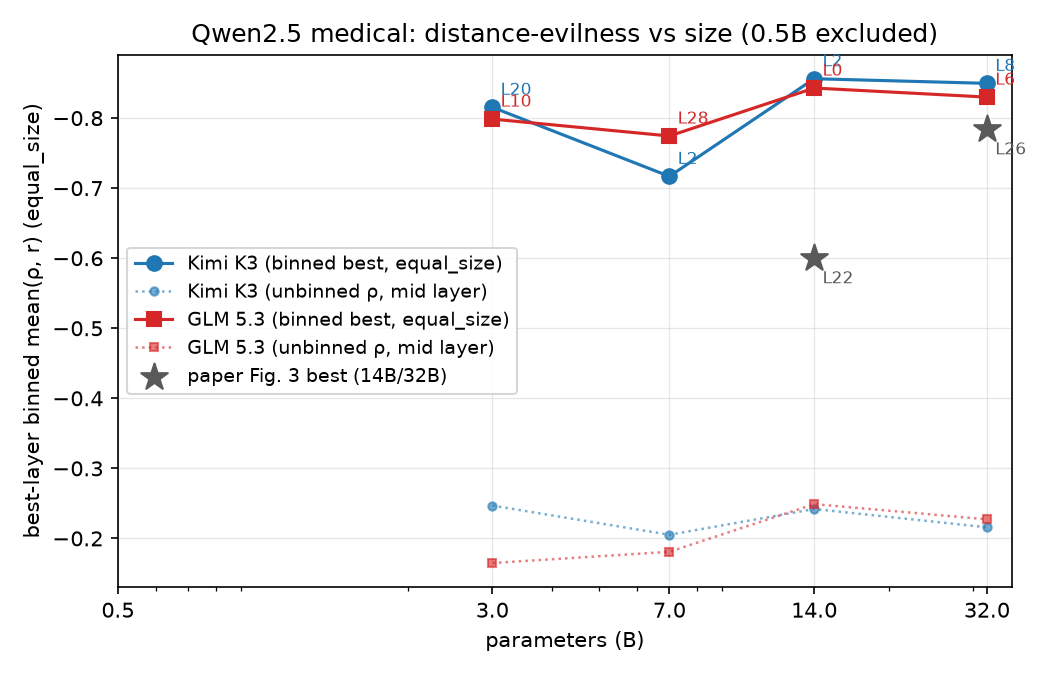
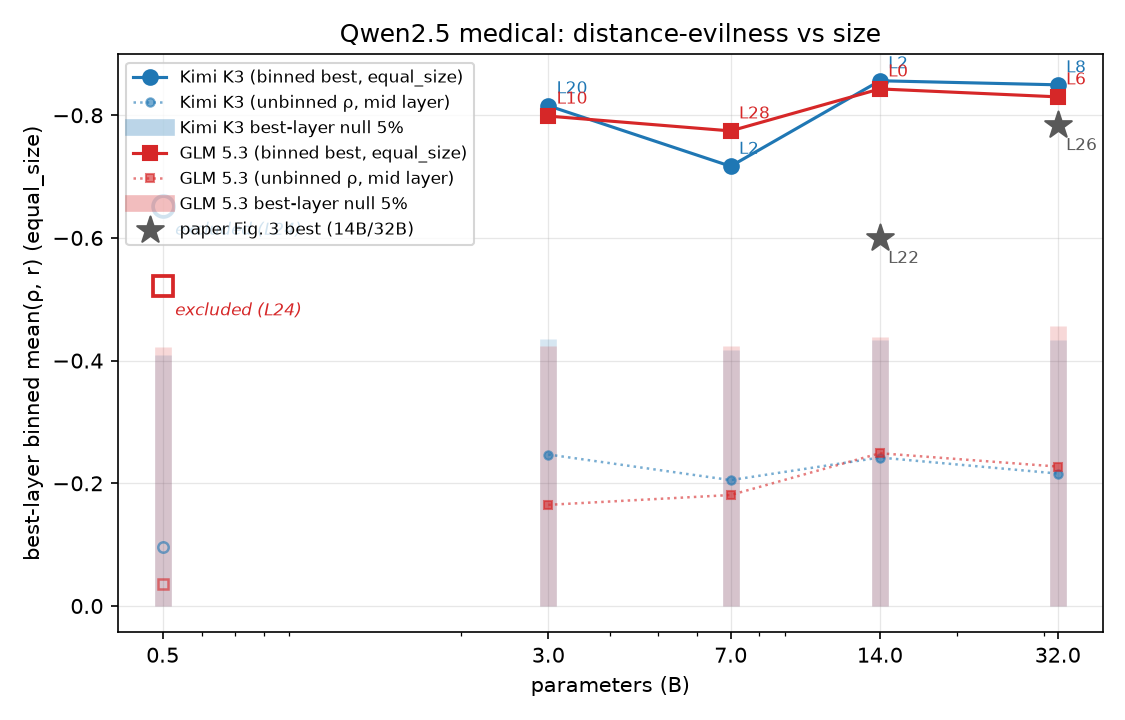
Scaling figure: null bars + marked-excluded 0.5B; package as dans-result
- plot_scaling.py: sweep-inclusive permutation null (1000 shuffles, layer
  search inside null) drawn as bars; --excluded-size draws hollow marked
  points instead of dropping them
- all ladder points clear their null (p05 ~ -0.41..-0.46); 0.5B is the
  weakest rung under the paper's binning (-0.65/-0.52)
- dans-result/: figure + derivation README (pipeline, binning, caveats)

Changed region(s): [[0.0, 0.0311, 1.0, 0.9644], [0.7619, 0.3111, 0.8229, 0.4044], [0.7924, 0.4044, 0.8229, 0.4356]]

diff --git a/scripts/plot_scaling.py b/scripts/plot_scaling.py
@@ -1,19 +1,29 @@
 """Scaling figure: distance-evilness correlation vs model size (Qwen2.5 ladder).
 
 Aggregates the paper's Figure-3 metric — per-layer binned mean(Spearman,
-Pearson) over the paper's sec3 bins (equal-sized bins of at most 20 prompts;
---bin-mode equal_size, default), best layer — across model sizes, one series
-per judge (and optionally per extraction reduction). Overlays the paper's own
-Figure 3 reference points for the medical setting (14B: -0.600, 32B: -0.784)
-for direct comparison.
+Pearson) over the paper's sec3 bins (equal-sized, full bins of 20 prompts,
+highest-distance leftover dropped, matching the paper's own
+correlate_persona.py), best layer — across model sizes, one series per judge.
+
+Two honesty overlays:
+  * each point carries a best-layer PERMUTATION-NULL marker: the translucent
+    vertical bar from 0 to the null's 5th percentile (the most negative value
+    5% of score-shuffles reach at THEIR best layer — the layer search is
+    inside the null). A point is distinguishable from shuffled data only if
+    it lies beyond the top of its bar.
+  * sizes listed via --excluded-size are drawn hollow with an "excluded"
+    annotation (kept visible, not silently dropped).
+
+The paper's own Figure 3 reference points for the medical setting
+(14B: -0.600, 32B: -0.784) are overlaid as stars.
 
 Point spec: --point "judge|size_in_B|path/to/pairs_<tag>.csv"
 e.g. --point "Kimi K3|7|data/analysis/bad_medical__chatbot_verified/pairs_response_mean_cosine.csv"
 
 Usage:
   python scripts/plot_scaling.py \
-    --point "Kimi K3|0.5|...pairs....csv" --point "Kimi K3|7|...pairs....csv" ... \
-    --out data/analysis/scaling_medical.png
+    --point "Kimi K3|0.5|...pairs....csv" --point "Kimi K3|7|..." ... \
+    --excluded-size 0.5 --out data/analysis/scaling_medical.png
 """
 import argparse
 import csv
@@ -24,6 +34,7 @@ matplotlib.use("Agg")
 import matplotlib.pyplot as plt
 import numpy as np
 from scipy import stats
+from scipy.stats import rankdata
 
 # Paper Figure 3 reference points (medical setting, best layer).
 PAPER_REFS = [(14, -0.600, "L22"), (32, -0.784, "L26")]
@@ -31,96 +42,134 @@ JUDGE_STYLE = {"Kimi K3": {"color": "#1f77b4", "marker": "o"},
                "GLM 5.3": {"color": "#d62728", "marker": "s"}}
 
 
-def bin_points(d, y, bins, mode):
-    """Return (bin_x, bin_y) mean points.
+def rowcorr(x, Y):
+    """Pearson r between 1-D x [B] and each row of Y [P, B]; NaN if constant."""
+    xc = x - x.mean()
+    Yc = Y - Y.mean(axis=1, keepdims=True)
+    den = np.sqrt((xc ** 2).sum()) * np.sqrt((Yc ** 2).sum(axis=1))
+    with np.errstate(invalid="ignore", divide="ignore"):
+        return np.where(den > 0, Yc @ xc / den, np.nan)
 
-    equal_size (paper sec3): sort by distance, split into consecutive groups
-    of at most `bins` prompts, one mean point per group.
-    equal_width: `bins` equal-width distance bins over [min(d), max(d)].
+
+def bin_all(d, Y, bins, mode):
+    """Bin-mean x [B] and y [P, B] for real + permuted scores at once.
+
+    equal_size (paper sec3, correlate_persona.py): full bins of `bins`
+    prompts; the highest-distance leftover (n mod bins) is dropped.
+    equal_width: `bins` equal-width distance bins, empty bins dropped.
     """
-    d = np.asarray(d, float)
-    y = np.asarray(y, float)
     if mode == "equal_size":
-        order = np.argsort(d, kind="stable")
-        # Paper's code (sec4 correlate_persona.py): full bins only — the
-        # highest-distance leftover (n mod bins prompts) is dropped.
-        order = order[: (len(order) // bins) * bins]
-        bx, by = [], []
-        for i in range(0, len(order), bins):
-            c = order[i:i + bins]
-            bx.append(d[c].mean())
-            by.append(y[c].mean())
-        return np.array(bx), np.array(by)
+        nb = len(d) // bins
+        o = np.argsort(d, kind="stable")[: nb * bins]
+        bx = d[o].reshape(nb, bins).mean(axis=1)
+        BY = Y[:, o].reshape(Y.shape[0], nb, bins).mean(axis=2)
+        return bx, BY
     if mode == "equal_width":
         edges = np.linspace(d.min(), d.max(), bins + 1)
         assign = np.clip(np.digitize(d, edges) - 1, 0, bins - 1)
-        bx, by = [], []
-        for b in range(bins):
+        keep = [b for b in range(bins) if (assign == b).any()]
+        W = np.zeros((len(keep), len(d)))
+        for k, b in enumerate(keep):
             m = assign == b
-            if m.any():
-                bx.append((edges[b] + edges[b + 1]) / 2)
-                by.append(y[m].mean())
-        return np.array(bx), np.array(by)
+            W[k, m] = 1.0 / m.sum()
+        bx = np.array([(edges[b] + edges[b + 1]) / 2 for b in keep])
+        return bx, Y @ W.T
     raise ValueError(f"unknown bin mode: {mode}")
 
 
-def best_binned(path, bins=20, mode="equal_size"):
-    """Return (best_binned_value, best_layer, unbinned_rho_at_midlayer)."""
+def best_binned(path, bins=20, mode="equal_size", n_null=1000, seed=0):
+    """Return (best_val, best_layer, unbinned_rho_mid, null_p05, n).
+
+    null_p05: 5th percentile of the best-layer value over score shuffles
+    (each shuffle applied at every layer, so the layer search is inside the
+    null).
+    """
     rows = list(csv.DictReader(open(path)))
     layer_cols = sorted((c for c in rows[0] if c.startswith("d_layer")),
                         key=lambda c: int(c[len("d_layer"):]))
+    D = np.array([[float(r[c]) for c in layer_cols] for r in rows])
     y = np.array([float(r["score"]) for r in rows])
-    vals = []
-    for col in layer_cols:
-        d = np.array([float(r[col]) for r in rows])
-        bx, by = bin_points(d, y, bins, mode)
-        if len(bx) < 3:
-            vals.append(np.nan)
+    rng = np.random.default_rng(seed)
+    Y = np.vstack([y, [rng.permutation(y) for _ in range(n_null)]])  # row 0 = real
+
+    vals = np.full((Y.shape[0], len(layer_cols)), np.nan)
+    for ell in range(len(layer_cols)):
+        d = D[:, ell]
+        if np.ptp(d) == 0:
             continue
-        vals.append((stats.spearmanr(bx, by).statistic + stats.pearsonr(bx, by).statistic) / 2)
-    vals = np.array(vals)
-    best = int(np.nanargmin(vals))
-    # Unbinned Spearman at the canonical mid layer (our headline metric).
+        bx, BY = bin_all(d, Y, bins, mode)
+        if len(bx) < 3:
+            continue
+        vals[:, ell] = (rowcorr(rankdata(bx), rankdata(BY, axis=1)) +
+                        rowcorr(bx, BY)) / 2
+    real = vals[0]
+    best = int(np.nanargmin(real))
+    null_best = np.nanmin(vals[1:], axis=1)
+    null_p05 = float(np.percentile(null_best[~np.isnan(null_best)], 5))
     mid = len(layer_cols) // 2
-    d_mid = np.array([float(r[layer_cols[mid]]) for r in rows])
-    rho_mid = stats.spearmanr(d_mid, y).statistic
-    return vals[best], best, rho_mid
+    rho_mid = stats.spearmanr(D[:, mid], y).statistic
+    return float(real[best]), best, float(rho_mid), null_p05, len(y)
 
 
 def main():
     ap = argparse.ArgumentParser()
     ap.add_argument("--point", action="append", required=True,
                     help="'<judge>|<size_in_B>|<pairs.csv>'; repeatable")
+    ap.add_argument("--excluded-size", action="append", default=[],
+                    help="size (B) drawn hollow and annotated as excluded; repeatable")
     ap.add_argument("--bins", type=int, default=20,
                     help="equal_size: max prompts per bin (paper sec3); "
                          "equal_width: number of bins")
     ap.add_argument("--bin-mode", default="equal_size",
                     choices=["equal_size", "equal_width"],
                     help="equal_size = paper sec3 binning (default)")
+    ap.add_argument("--null-perms", type=int, default=1000)
+    ap.add_argument("--seed", type=int, default=0)
     ap.add_argument("--out", required=True)
     ap.add_argument("--title", default="Qwen2.5 medical: distance-evilness vs size")
     args = ap.parse_args()
+    excluded = {float(s) for s in args.excluded_size}
 
-    series = defaultdict(list)  # judge -> [(size, binned_val, layer, rho_mid)]
+    series = defaultdict(list)  # judge -> [(size, val, layer, rho_mid, null_p05, n)]
     for spec in args.point:
         judge, size, path = spec.split("|", 2)
-        val, layer, rho_mid = best_binned(path, args.bins, args.bin_mode)
-        series[judge].append((float(size), val, layer, rho_mid))
-        print(f"  {judge} {size}B: best L{layer} = {val:.3f}  (unbinned rho mid: {rho_mid:.3f})")
+        val, layer, rho_mid, null_p05, n = best_binned(
+            path, args.bins, args.bin_mode, args.null_perms, args.seed)
+        series[judge].append((float(size), val, layer, rho_mid, null_p05, n))
+        sig = "beyond null" if val < null_p05 else "WITHIN null"
+        print(f"  {judge} {size}B: best L{layer} = {val:.3f}  "
+              f"(null p05 {null_p05:+.3f} -> {sig}; unbinned rho mid: {rho_mid:.3f})")
 
-    fig, ax = plt.subplots(figsize=(7, 4.5))
+    fig, ax = plt.subplots(figsize=(7.5, 4.8))
     for judge, pts in series.items():
         pts.sort()
-        xs = [p[0] for p in pts]
-        ys = [p[1] for p in pts]
         st = JUDGE_STYLE.get(judge, {})
-        ax.plot(xs, ys, label=f"{judge} (binned best, {args.bin_mode})", lw=1.5, ms=7,
-                marker=st.get("marker", "o"), color=st.get("color"))
-        ax.plot(xs, [p[3] for p in pts], ls=":", lw=1.2, marker=st.get("marker", "o"),
-                ms=4, color=st.get("color"), alpha=0.6, label=f"{judge} (unbinned ρ, mid layer)")
-        for x, y, ell, _ in pts:
+        color = st.get("color")
+        marker = st.get("marker", "o")
+        keep = [p for p in pts if p[0] not in excluded]
+        excl = [p for p in pts if p[0] in excluded]
+        xs = [p[0] for p in keep]
+        ax.plot(xs, [p[1] for p in keep], label=f"{judge} (binned best, {args.bin_mode})",
+                lw=1.5, ms=7, marker=marker, color=color)
+        ax.plot(xs, [p[3] for p in keep], ls=":", lw=1.2, marker=marker,
+                ms=4, color=color, alpha=0.6, label=f"{judge} (unbinned ρ, mid layer)")
+        # Null bars for ALL points (kept + excluded): 0 -> null p05.
+        for x, _v, _ell, _rm, p05, _n in pts:
+            ax.plot([x, x], [0, p05], color=color, alpha=0.18, lw=8,
+                    solid_capstyle="butt", zorder=1)
+        ax.plot([], [], color=color, alpha=0.3, lw=8,
+                label=f"{judge} best-layer null 5%")
+        for x, y, ell, _rm, _p05, _n in keep:
             ax.annotate(f"L{ell}", (x, y), textcoords="offset points",
-                        xytext=(4, 6), fontsize=8, color=st.get("color", "k"))
+                        xytext=(4, 6), fontsize=8, color=color)
+        for p in excl:
+            x, y, ell, rm, _p05, _n = p
+            ax.plot([x], [y], marker=marker, ms=10, mfc="none", mec=color,
+                    mew=1.8, ls="none", zorder=4)
+            ax.plot([x], [rm], marker=marker, ms=5, mfc="none", mec=color,
+                    mew=1.2, ls="none", alpha=0.6, zorder=4)
+            ax.annotate(f"excluded (L{ell})", (x, y), textcoords="offset points",
+                        xytext=(6, -14), fontsize=8, color=color, style="italic")
     # Paper reference points (their judges/settings, same dataset family).
     px = [p[0] for p in PAPER_REFS]
     py = [p[1] for p in PAPER_REFS]
@@ -138,7 +187,7 @@ def main():
     ax.set_title(args.title)
     ax.grid(True, alpha=0.3, lw=0.6)
     ax.set_axisbelow(True)
-    ax.legend(fontsize=9, loc="best")
+    ax.legend(fontsize=8, loc="best")
     fig.tight_layout()
     fig.savefig(args.out, dpi=150)
     print(f"wrote {args.out}")

diff --git a/dans-result/README.md b/dans-result/README.md
@@ -1,0 +1,104 @@
+# dans-result — distance→evilness vs model size
+
+**`scaling_medical.png`** — the paper's Figure-3 metric aggregated across the
+Qwen2.5 size ladder, on our reproduction of arXiv:2608.29118 ("Emergent
+Misalignment Is Not Magical") §3. Provisional until Dan verifies.
+
+## What the plot shows
+
+- **x:** Qwen2.5-Instruct base size (log scale). **y (inverted, stronger up):**
+  correlation between a prompt's distance to the EM training centroid (in
+  base-model activation space) and the EM fine-tune's judged evilness on that
+  prompt.
+- **Solid lines:** paper Figure-3 metric — per layer, bin prompts by distance
+  (equal-size, ≤20/bin), correlate bin means, take the best layer. One series
+  per judge (Kimi K3 circles, GLM 5.3 squares).
+- **Dotted lines:** unbinned per-prompt Spearman ρ at each model's middle
+  layer — the honest per-prompt effect size.
+- **Translucent bars:** best-layer permutation null (1,000 score shuffles,
+  shuffle applied at every layer so the layer search is inside the null); bar
+  top = the 5th percentile of shuffles' best layers. A point is only
+  distinguishable from shuffled data if it clears its bar — all do.
+- **Stars:** the paper's own Figure-3 medical bests (14B −0.600, 32B −0.784).
+- **Hollow 0.5B points:** excluded from the scaling claim (see caveats).
+
+## Values (post-repair data, 2026-10-24)
+
+| Size | Kimi K3 | GLM 5.3 | Kimi unbinned ρ (mid) | null p05 ≈ |
+|---|---|---|---|---|
+| 0.5B ⚠ | −0.653 @ L24 | −0.521 @ L24 | −0.096 | −0.41/−0.42 |
+| 3B | −0.815 @ L20 | −0.799 @ L10 | −0.247 | −0.44/−0.42 |
+| 7B | −0.717 @ L2 | −0.774 @ L28 | −0.205 | −0.42/−0.43 |
+| 14B | −0.856 @ L2 | −0.843 @ L0 ⚠ | −0.242 | −0.43/−0.44 |
+| 32B | −0.850 @ L8 | −0.830 @ L6 | −0.216 | −0.43/−0.46 |
+
+Spearman-only at the best layers (the paper's Table-4 statistic): −0.92 (14B),
+−0.89 (32B) — at/above the top of the paper's per-setting range
+(−0.57…−0.89).
+
+## How it was derived
+
+1. **Prompts:** rebuilt Chatbot Verified (n=638): 2,000 first-turn Chatbot
+   Arena prompts → answered by Qwen2.5-7B-Instruct under the paper's evil
+   system prompt → Kimi K3 judged → kept score > 50. Same-recipe
+   reconstruction; the authors' set is unreleased.
+2. **Activations:** base Qwen2.5-{0.5,3,7,14,32}B-Instruct over each prompt's
+   EM response, residual stream, all layers, response-mean pooling
+   (`em-not-magical/sec3/hybrid_extract_activations.py`).
+3. **Centroid:** mean over the same activations for the first 5,000 rows of
+   the bad-medical EM training set, matched response_mean reduction
+   (`scripts/compute_training_centroids_all.py`).
+4. **Distance:** cosine, 1 − cos(x, μ) per layer (`scripts/sec3_distance_evilness.py`).
+5. **Scores:** EM models (ChicagoHAI qwen2.5-*-em-medical-advice) answered the
+   same prompts (greedy); LLM judges scored evilness 0–100 with the paper's
+   verbatim chatbot_arena rubric, temperature 0. Kimi K3 primary, GLM 5.3
+   robustness swap. Judge API failures were retried to zero error rows
+   (`scripts/retry_judge_failed.py`).
+6. **Binning (the part that matters):** the paper's §3 method, verified
+   against their own code (`sec4/4_3_evil_persona/correlate_persona.py`):
+   sort by distance, full bins of 20, **drop the highest-distance leftover**
+   (n=638 → 31 bins; at 7B the leftover contains the far-tail prompts idx
+   536/537), correlate the 31 bin means (mean of Spearman ρ and Pearson r),
+   sweep all layers, report the best.
+7. **Null:** 1,000 shuffles of the score vector, each evaluated at every
+   layer; bar = 5th percentile of each shuffle's best layer.
+
+## Caveats (read before quoting)
+
+- **The binned numbers are amplified by construction.** Per-prompt ρ is flat
+  at −0.16…−0.25 across sizes (dotted lines); the −0.72…−0.86 bests are the
+  same data after averaging + best-layer selection. Do not read the solid
+  curve as stronger evidence of a size effect than the dotted one.
+- **0.5B excluded** from the scaling claim: ~10% of its EM responses fail
+  coherence (vs ~1% elsewhere), its base model is itself anomalous on this
+  prompt set (mean evilness 8.0, 48/638 refusals), and it is below the
+  paper's smallest evaluated setting. Shown hollow, not deleted.
+- **Best layers cluster early** (L0–L10); GLM's 14B best is at L0
+  (embeddings) — token-level, not representational-depth, signal.
+- **Base-model control (done 2026-10-24):** the same distance metric against
+  BASE-model evilness is flat zero at every size (ρ ≈ −0.02…+0.10), so the
+  correlation is EM-specific (cf. the paper's Fig. 14 base control).
+- Judges are Kimi K3 / GLM 5.3, not the paper's GPT-5.4; a GPT-family bridge
+  is unavailable to us. Full context: `docs/results.md` (run 3) and the
+  binning-sensitivity analysis.
+
+## Regenerate
+
+From the repo root (needs the project venv; ~1–2 min for the nulls):
+
+```bash
+em-not-magical/.venv/bin/python scripts/plot_scaling.py \
+  --point "Kimi K3|0.5|data/analysis/bad_medical__chatbot_verified__05b/pairs_response_mean_cosine.csv" \
+  --point "Kimi K3|3|data/analysis/bad_medical__chatbot_verified__3b/pairs_response_mean_cosine.csv" \
+  --point "Kimi K3|7|data/analysis/bad_medical__chatbot_verified/pairs_response_mean_cosine.csv" \
+  --point "Kimi K3|14|data/analysis/bad_medical__chatbot_verified__14b/pairs_response_mean_cosine.csv" \
+  --point "Kimi K3|32|data/analysis/bad_medical__chatbot_verified__32b/pairs_response_mean_cosine.csv" \
+  --point "GLM 5.3|0.5|data/analysis/bad_medical__chatbot_verified__05b__glm53/pairs_response_mean_cosine.csv" \
+  --point "GLM 5.3|3|data/analysis/bad_medical__chatbot_verified__3b__glm53/pairs_response_mean_cosine.csv" \
+  --point "GLM 5.3|7|data/analysis/bad_medical__chatbot_verified__glm53/pairs_response_mean_cosine.csv" \
+  --point "GLM 5.3|14|data/analysis/bad_medical__chatbot_verified__14b__glm53/pairs_response_mean_cosine.csv" \
+  --point "GLM 5.3|32|data/analysis/bad_medical__chatbot_verified__32b__glm53/pairs_response_mean_cosine.csv" \
+  --excluded-size 0.5 \
+  --title "Qwen2.5 medical: distance-evilness vs size" \
+  --out data/analysis/scaling_medical.png
+```
